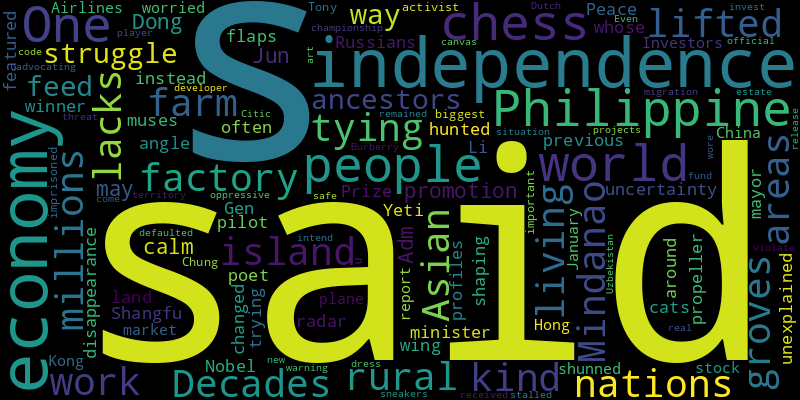
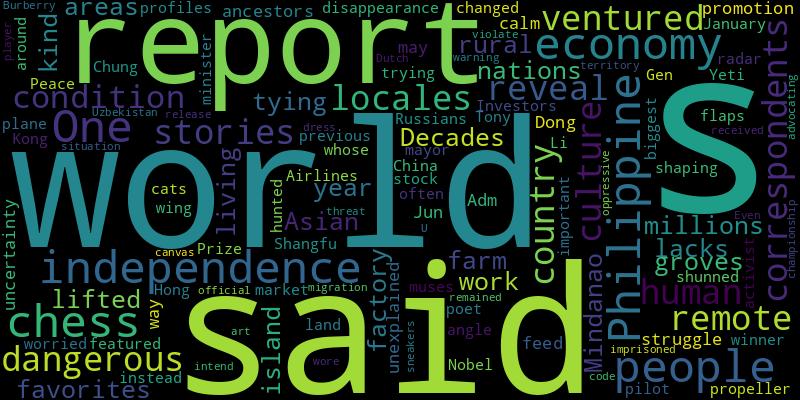
chore(bot): 💩 auto commit

diff --git a/README.md b/README.md
@@ -2,32 +2,33 @@
 Auto RSS New York Times and Generate Word Cloud
 
 ## New York Times Global News
+* En el reclusorio más antiguo y hacinado de Chile, los reclusos encontraron consuelo en cientos de gatos callejeros.
+* As conventional forces struggle to break through defensive lines, both sides are increasingly turning to guerrilla tactics.
+* At a time when support for peace is at a low, conversations at Israel’s Hand in Hand schools about the Oct. 7 attack and the war in Gaza sound different than they do elsewhere.
+* Our correspondents ventured to some of the world’s most remote, and dangerous, locales to report stories that reveal a country’s culture and the human condition. Here are our favorites from the year.
+* Gleefully vulgar, the genre known as “Cinepanettone” once dominated Italy over the holidays. Italian revelers recently flocked to the alpine town where many of the films were set.
 * A Times investigation found that troops were disorganized, out of position and relied on social media to choose targets. Behind the failure: Israel had no battle plan for a massive Hamas invasion.
-* Gleefully vulgar, the genre known as “Cinema Panettone” once dominated Italy over the holidays. Italian revelers recently flocked to the alpine town where many of the films were set.
+* The bombardment of Belgorod on Saturday, apparently in response to an enormous air assault by Moscow a day earlier, appeared to be the deadliest single attack on Russian soil since the start of the war.
 * A festive pop-up restaurant is the latest crowd-pleasing stunt from Greggs, a mass-market bakery that is riding out Britain’s cost-of-living crisis with gusto.
 * The conflict and surging arms production in Russia have spurred demand for ammunition manufacturing across Europe.
-* The missile and drone attacks killed at least 30 people and damaged critical industrial and military infrastructure, part of a wintertime campaign that Ukraine had been dreading.
-* A hospital in Rafah said that a house where displaced Palestinians were staying was hit with an airstrike, killing at least 18 people.
-* An “integrated care center” brings doctors, physiotherapists, social workers and pharmacists under one roof. It won’t solve Britain’s underlying social care crisis — but it could help.
-* From a Nobel Peace Prize winner, to a mayor hunted by the Russians, to a poet whose muses are cats, our profiles featured people shaping the world around them, often under the radar.
-* The promotion of Adm. Dong Jun may calm uncertainty after the unexplained disappearance of the previous minister, Gen. Li Shangfu.
-* A Times investigation uncovered new details showing a pattern of rape, mutilation and extreme brutality against women in the attacks on Israel.
+* In one of the war’s largest bombardments, 35 missiles slipped through Ukraine’s air cover on Friday, killing dozens. Ukraine responded with shelling on the Russian region of Belgorod, killing at least 22.
 
 ![Global](./global.png)
 ## New York Times United States News
-* Authors and activists said the Republican-backed law infringed on free speech. The judge said the ban imposed a “puritanical ‘pall of orthodoxy’ over school libraries.”
-* Barring former President Donald J. Trump from the primary ballot was a hard but necessary call, Shenna Bellows said in an interview.
-* There are lawsuits pending in more than a dozen states seeking to have Donald J. Trump disqualified from appearing on primary ballots.
-* Some voters were alarmed at the state’s decision to disqualify former President Donald J. Trump. But others applauded it. “I like that Maine took a stand,” said one.
 * Some critics say the battles over the former president’s ballot status are turning him into a martyr and eroding faith in American elections.
-* Republicans are pushing for the removal of Kristina Karamo, an election-denying activist who rose to lead the state party this year, amid mounting financial problems and persistent infighting.
+* Authors and activists said the Republican-backed law infringed on free speech. The judge said the ban imposed a “puritanical ‘pall of orthodoxy’ over school libraries.”
 * Chinatowns in the United States and Canada have long been squeezed by development projects. Will a proposed arena in Philadelphia’s struggling downtown be the next?
-* The cases in Colorado, Maine and other states are requiring former President Donald J. Trump to devote resources already spread thin across four criminal indictments.
-* A Sol de Janeiro moisturizer has garnered attention after reviews claimed it attracted Wolf spiders. Experts say it’s likelier that the season is leading to more human-spider interactions.
-* The legal issues are novel and tangled, experts said, and the justices may be wary of knocking a leading presidential candidate off the ballot.
+* Gov. Mike DeWine’s veto of the bill, which also prohibited transgender girls and women from sports teams that correspond with their gender identity, is a rare move by a Republican governor.
+* Chris George has lived in Israel and Gaza, where he was once held hostage. As his employees ask him to speak out on the latest war, he is torn.
+* The president is enjoying a working vacation, a White House official said. Residents hope to bring attention to the Virgin Islands’ economic troubles.
+* The four teams in the College Football Playoff used cash payments from fan “collectives” in unique ways to build their rosters, showing how much an influx of money has changed college sports.
+* After 13 years in prison in Massachusetts, Marco Flores is fighting being deported to El Salvador, which he left when he was 6.
+* While conditions in some areas were expected to ease on Saturday, rough conditions could continue elsewhere until Monday.
+* The vessel, now off the Alaskan coast, is carrying nearly 2,000 tons of lithium-ion batteries, which contain highly flammable materials, officials said.
 
 ![US](./usnews.png)
 ## New York Times Asia News
+* Our correspondents ventured to some of the world’s most remote, and dangerous, locales to report stories that reveal a country’s culture and the human condition. Here are our favorites from the year.
 * Decades after independence, the Philippines lacks the kind of factory economy that has lifted up other Asian nations, tying millions to farm work.
 * In the groves of the Philippine island of Mindanao, people living in rural areas struggle to feed themselves in the same way as their ancestors.
 * The promotion of Adm. Dong Jun may calm uncertainty after the unexplained disappearance of the previous minister, Gen. Li Shangfu.
@@ -37,6 +38,5 @@ Auto RSS New York Times and Generate Word Cloud
 * The activist, Tony Chung, was imprisoned after advocating for the territory’s independence. Even after his release, he said, his situation remained oppressive.
 * Also, migration to the U.S. and the threat to art from A.I.
 * The Dutch chess player, who received an official warning, said she did not intend to violate the dress code when she wore her canvas Burberry sneakers at a chess championship in Uzbekistan.
-* Citic said its new fund was as safe as they come because it would invest in real estate. Then the developer defaulted and the projects stalled.
 
 ![Asian](./asian.png)
